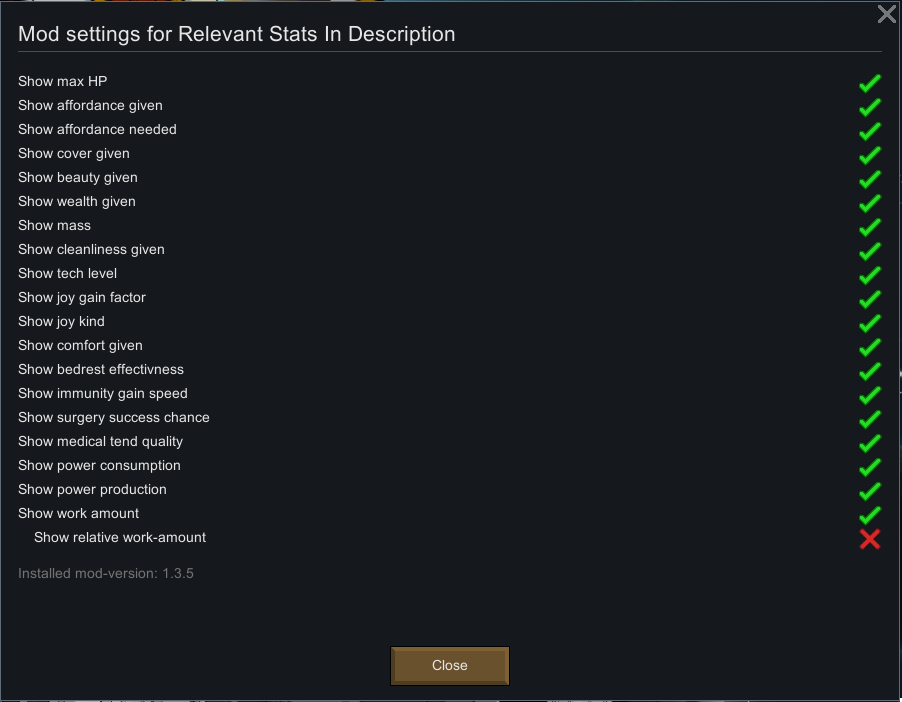
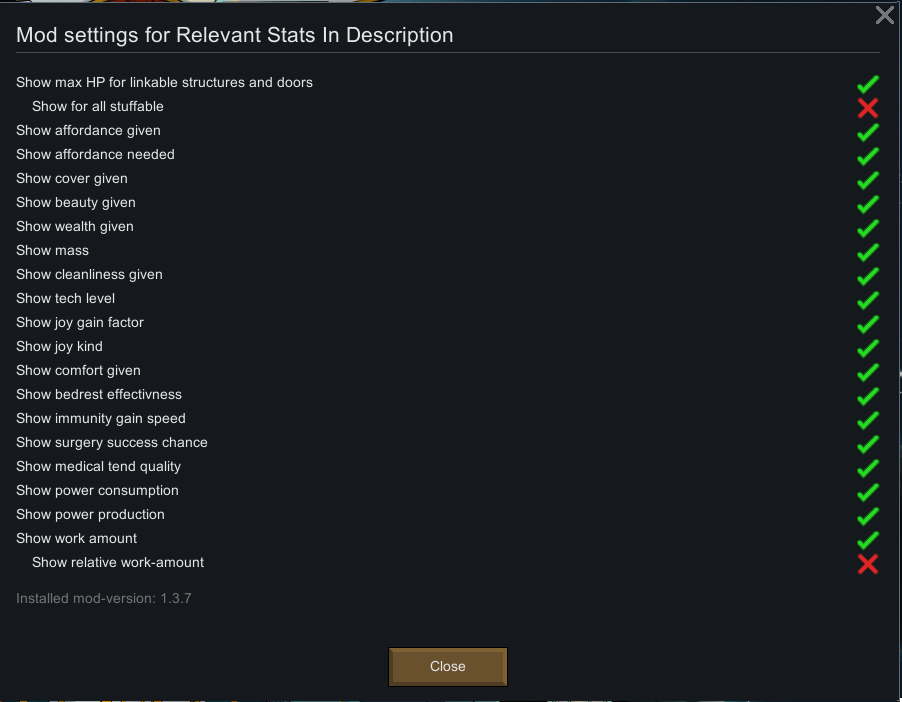
Added setting to show max hp for all stuffable structures, not just linkable and doors.

diff --git a/Source/RelevantStatsInDescription/RelevantStatsInDescriptionMod.cs b/Source/RelevantStatsInDescription/RelevantStatsInDescriptionMod.cs
@@ -69,6 +69,17 @@ internal class RelevantStatsInDescriptionMod : Mod
         listing_Standard.Gap();
         listing_Standard.CheckboxLabeled("RSID_ShowHP.Label".Translate(), ref RelevantStatsInDescriptionSettings.ShowHP,
             "RSID_ShowHP.Tooltip".Translate());
+        if (RelevantStatsInDescriptionSettings.ShowHP)
+        {
+            listing_Standard.CheckboxLabeled("RSID_ShowHPForAll.Label".Translate(),
+                ref RelevantStatsInDescriptionSettings.ShowHPForAll,
+                "RSID_ShowHPForAll.Tooltip".Translate());
+        }
+        else
+        {
+            RelevantStatsInDescriptionSettings.ShowHPForAll = false;
+        }
+
         listing_Standard.CheckboxLabeled("RSID_ShowAffordance.Label".Translate(),
             ref RelevantStatsInDescriptionSettings.ShowAffordance, "RSID_ShowAffordance.Tooltip".Translate());
         listing_Standard.CheckboxLabeled("RSID_ShowAffordanceRequirement.Label".Translate(),

diff --git a/Source/RelevantStatsInDescription/RelevantStatsInDescriptionSettings.cs b/Source/RelevantStatsInDescription/RelevantStatsInDescriptionSettings.cs
@@ -16,6 +16,7 @@ internal class RelevantStatsInDescriptionSettings : ModSettings
     public bool ShowComfort = true;
     public bool ShowCover = true;
     public bool ShowHP = true;
+    public bool ShowHPForAll;
     public bool ShowImmunityGainSpeed = true;
     public bool ShowJoy = true;
     public bool ShowJoyKind = true;
@@ -37,6 +38,7 @@ internal class RelevantStatsInDescriptionSettings : ModSettings
     {
         base.ExposeData();
         Scribe_Values.Look(ref ShowHP, "ShowHP", true);
+        Scribe_Values.Look(ref ShowHPForAll, "ShowHPForAll");
         Scribe_Values.Look(ref ShowAffordance, "ShowAffordance", true);
         Scribe_Values.Look(ref ShowAffordanceRequirement, "ShowAffordanceRequirement", true);
         Scribe_Values.Look(ref ShowCover, "ShowCover", true);

diff --git a/Source/RelevantStatsInDescription/RelevantStatsInDescription.cs b/Source/RelevantStatsInDescription/RelevantStatsInDescription.cs
@@ -199,6 +199,14 @@ public class RelevantStatsInDescription
                 arrayToAdd.Add("RSID_Cover".Translate(buildableThing.fillPercent.ToStringPercent()));
             }
         }
+        else
+        {
+            if (RelevantStatsInDescriptionMod.instance.RelevantStatsInDescriptionSettings.ShowHPForAll &&
+                buildableThing.MadeFromStuff)
+            {
+                arrayToAdd.Add("RSID_MaxHP".Translate(thing.MaxHitPoints));
+            }
+        }
 
         // Comfort
         if (RelevantStatsInDescriptionMod.instance.RelevantStatsInDescriptionSettings.ShowComfort)

diff --git a/README.md b/README.md
@@ -43,3 +43,4 @@ https://ko-fi.com/G2G55DDYD]![Image](https://i.imgur.com/Utx6OIH.png)
 
 
 
+
